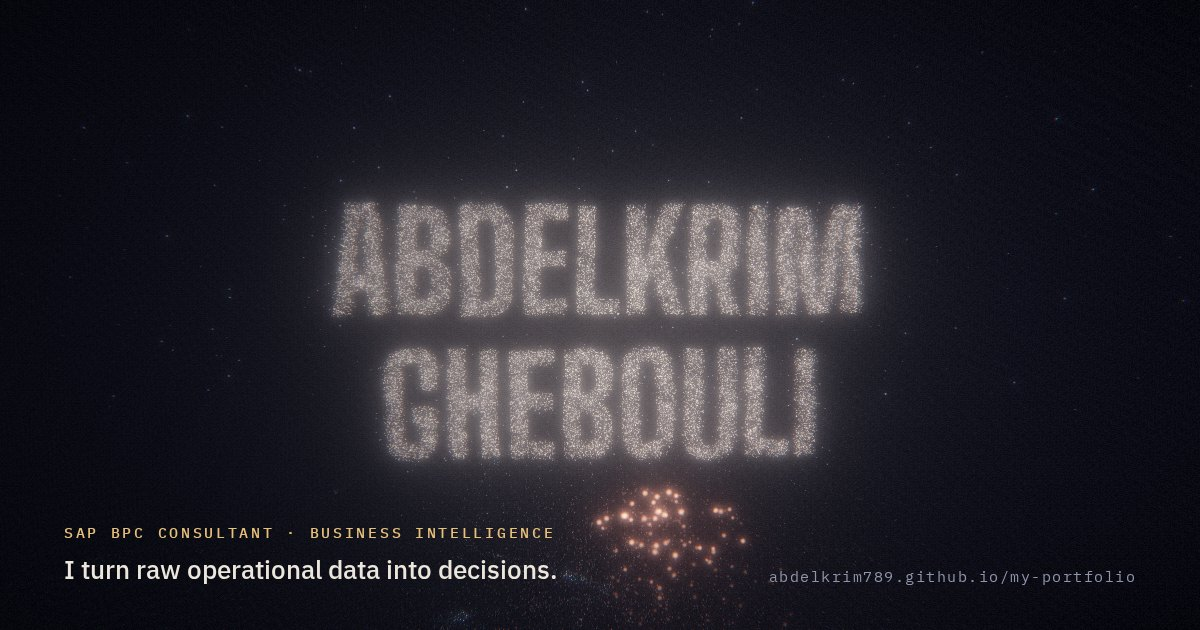
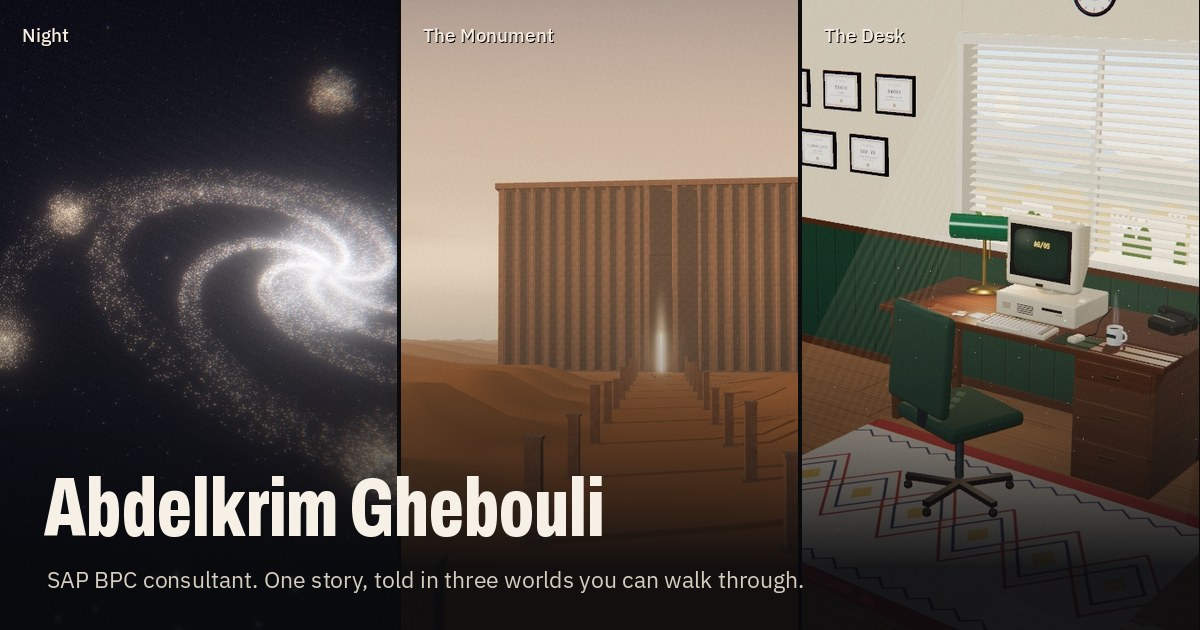
First impression: moon off the name, legible text, smoother load
- Night: in landscape the moon now rises above the name instead of
  covering it; portrait keeps its place.
- Small mono labels are at least 12px (Lighthouse legible text 52% -> 100%).
- Geometry is built in slices and the shaders are compiled before the
  first frame (in parallel where the browser supports it).
- The world-picker thumbnail no longer reads pixels back from the GPU 4 s
  after load, in the middle of the intro; it waits 20 s.
- The resolution governor measures real frame time, so a device that can
  only draw a few frames a second gets rescued in seconds instead of
  minutes (software rendering: ~900 ms -> ~400 ms per frame).
- New share image with all three worlds; links from the last chapter to
  the CV page and the Lab.

Claude-Session: https://claude.ai/code/session_01JYGFZYtspZL2gWLKE4Hkp7

diff --git a/index.html b/index.html
@@ -79,7 +79,7 @@ a { color: inherit; }
 .brand { display: flex; flex-direction: column; text-decoration: none; font: 600 0.95rem/1.15 var(--body); letter-spacing: 0.01em; }
 .brand span { font: 400 0.68rem/1.4 var(--mono); color: var(--muted); letter-spacing: 0.14em; text-transform: uppercase; }
 .hud-actions { display: flex; gap: 8px; }
-.chip { font: 500 0.7rem/1 var(--mono); letter-spacing: 0.12em; text-transform: uppercase; color: var(--paper); background: rgba(var(--bg2-rgb), 0.6);
+.chip { font: 500 0.75rem/1 var(--mono); letter-spacing: 0.12em; text-transform: uppercase; color: var(--paper); background: rgba(var(--bg2-rgb), 0.6);
   border: 1px solid var(--line); border-radius: 999px; padding: 9px 14px; cursor: pointer; text-decoration: none; backdrop-filter: blur(8px); -webkit-backdrop-filter: blur(8px); white-space: nowrap; }
 .chip:hover { border-color: var(--sand); color: var(--sand); }
 .chip[aria-pressed="true"] { border-color: var(--ice); color: var(--ice); }
@@ -124,7 +124,7 @@ a { color: inherit; }
   border-radius: 6px; border: 1px solid rgba(var(--sand-rgb), 0.55); background: rgba(var(--bg-rgb), 0.92); transform: translateY(-12px); opacity: 0; pointer-events: none;
   transition: opacity 0.4s, transform 0.5s cubic-bezier(0.2, 0.8, 0.2, 1); }
 #ach-toast.on { opacity: 1; transform: none; }
-#ach-toast small { display: block; font: 500 0.6rem/1 var(--mono); letter-spacing: 0.18em; text-transform: uppercase; color: var(--sand); margin-bottom: 6px; }
+#ach-toast small { display: block; font: 500 0.75rem/1 var(--mono); letter-spacing: 0.18em; text-transform: uppercase; color: var(--sand); margin-bottom: 6px; }
 #ach-toast b { display: block; font: 800 1.5rem/1 var(--display); text-transform: uppercase; color: var(--paper); }
 #ach-toast span { display: block; margin-top: 4px; font-size: 0.82rem; color: rgba(var(--fg-rgb), 0.8); }
 .ach { list-style: none; margin: 0 0 18px; padding: 0; display: grid; grid-template-columns: repeat(2, minmax(0, 1fr)); gap: 6px; }
@@ -143,11 +143,11 @@ a { color: inherit; }
 .dock { position: fixed; z-index: 6; left: 50%; transform: translateX(-50%); bottom: calc(env(safe-area-inset-bottom, 0px) + 14px);
   display: flex; align-items: center; gap: 2px; padding: 4px; border: 1px solid var(--line); border-radius: 999px;
   background: rgba(var(--bg-rgb), 0.72); backdrop-filter: blur(10px); -webkit-backdrop-filter: blur(10px); }
-.dock button { all: unset; cursor: pointer; font: 500 0.66rem/1 var(--mono); letter-spacing: 0.12em; text-transform: uppercase; color: var(--paper);
+.dock button { all: unset; cursor: pointer; font: 500 0.75rem/1 var(--mono); letter-spacing: 0.12em; text-transform: uppercase; color: var(--paper);
   padding: 9px 13px; border-radius: 999px; white-space: nowrap; }
 .dock button:hover, .dock button:focus-visible { background: rgba(var(--sand-rgb), 0.16); color: var(--sand); }
 .dock button[disabled] { opacity: 0.3; cursor: default; background: none; color: var(--paper); }
-.dock .now { font: 500 0.66rem/1 var(--mono); letter-spacing: 0.14em; color: var(--sand); padding: 0 10px; min-width: 9.5em; text-align: center; }
+.dock .now { font: 500 0.75rem/1 var(--mono); letter-spacing: 0.14em; color: var(--sand); padding: 0 10px; min-width: 9.5em; text-align: center; }
 .dock .next { border: 1px solid rgba(var(--sand-rgb), 0.45); }
 
 /* World button in the header */
@@ -290,7 +290,7 @@ html[data-ui="own"] #stage { touch-action: none; }
 
 .detail-nav { position: sticky; bottom: calc(env(safe-area-inset-bottom, 0px) * -1); margin: 26px -32px calc(-40px - env(safe-area-inset-bottom, 0px)); padding: 12px 20px calc(14px + env(safe-area-inset-bottom, 0px));
   display: flex; align-items: center; justify-content: space-between; gap: 8px; border-top: 1px solid var(--line); background: rgba(var(--bg-rgb), 0.94); }
-.detail-nav button { all: unset; cursor: pointer; display: flex; gap: 6px; align-items: center; min-width: 0; max-width: 42%; font: 500 0.66rem/1.3 var(--mono);
+.detail-nav button { all: unset; cursor: pointer; display: flex; gap: 6px; align-items: center; min-width: 0; max-width: 42%; font: 500 0.75rem/1.3 var(--mono);
   letter-spacing: 0.08em; text-transform: uppercase; color: var(--paper); padding: 8px 10px; border-radius: 4px; }
 .detail-nav button span { overflow: hidden; text-overflow: ellipsis; white-space: nowrap; }
 .detail-nav button:hover, .detail-nav button:focus-visible { color: var(--sand); background: rgba(var(--sand-rgb), 0.12); }
@@ -331,14 +331,14 @@ main { position: relative; z-index: 2; }
 @media (min-width: 900px) {
   .chapter:not(.hero) .panel { margin-left: max(0px, calc(176px - var(--gutter))); }
 }
-.eyebrow { display: flex; align-items: center; gap: 10px; font: 500 0.72rem/1 var(--mono); letter-spacing: 0.18em; text-transform: uppercase; color: var(--ice); margin: 0 0 18px; }
+.eyebrow { display: flex; align-items: center; gap: 10px; font: 500 0.76rem/1 var(--mono); letter-spacing: 0.18em; text-transform: uppercase; color: var(--ice); margin: 0 0 18px; }
 .eyebrow::before { content: ""; width: 26px; height: 1px; background: currentColor; }
 .eyebrow.sand { color: var(--sand); } .eyebrow.fault { color: var(--fault); }
 h2 { font: 800 clamp(2.6rem, 5vw, 4.9rem)/0.88 var(--display); text-transform: uppercase; letter-spacing: 0.005em; margin: 0 0 20px; text-wrap: balance; }
 p { margin: 0 0 14px; color: rgba(var(--fg-rgb), 0.86); max-width: 62ch; }
 .role { font: 400 0.78rem/1.5 var(--mono); color: var(--muted); letter-spacing: 0.04em; margin-bottom: 14px; }
 .role b { color: var(--paper); font-weight: 500; }
-.hint { display: inline-flex; align-items: center; gap: 12px; margin-top: 10px; font: 500 0.68rem/1.4 var(--mono); letter-spacing: 0.16em; text-transform: uppercase; color: var(--sand); }
+.hint { display: inline-flex; align-items: center; gap: 12px; margin-top: 10px; font: 500 0.75rem/1.4 var(--mono); letter-spacing: 0.16em; text-transform: uppercase; color: var(--sand); }
 .hint::before { content: ""; width: 7px; height: 7px; flex: none; border-radius: 50%; background: currentColor; animation: ping 1.8s ease-out infinite; }
 @keyframes ping { from { box-shadow: 0 0 0 0 rgba(var(--sand-rgb), 0.6); } to { box-shadow: 0 0 0 12px rgba(var(--sand-rgb), 0); } }
 
@@ -353,7 +353,7 @@ p { margin: 0 0 14px; color: rgba(var(--fg-rgb), 0.86); max-width: 62ch; }
 .creds { list-style: none; margin: 22px 0 28px; padding: 0; display: flex; flex-wrap: wrap; gap: 8px; }
 .creds li { font: 400 0.8rem/1.3 var(--body); padding: 10px 12px; border: 1px solid var(--line); background: rgba(var(--bg-rgb), 0.6); border-radius: 2px; cursor: default; transition: border-color 0.25s; }
 .creds li:hover, .creds li:focus-visible { border-color: var(--sand); }
-.creds code { display: block; font: 500 0.7rem/1 var(--mono); color: var(--sand); letter-spacing: 0.1em; margin-bottom: 6px; }
+.creds code { display: block; font: 500 0.76rem/1 var(--mono); color: var(--sand); letter-spacing: 0.1em; margin-bottom: 6px; }
 .contact { border-top: 1px solid var(--line); padding-top: 22px; display: grid; gap: 16px; }
 .other-worlds { font-size: 0.92rem; color: rgba(var(--fg-rgb), 0.8); }
 .link-btn { all: unset; cursor: pointer; color: var(--sand); border-bottom: 1px solid currentColor; font-weight: 500; }
@@ -362,11 +362,11 @@ p { margin: 0 0 14px; color: rgba(var(--fg-rgb), 0.86); max-width: 62ch; }
 :root[data-world="night"] .guide-card .g-night, :root[data-world="monument"] .guide-card .g-monument, :root[data-world="desk"] .guide-card .g-desk { opacity: 1; }
 #email { font: 800 clamp(1.5rem, 4.2vw, 2.6rem)/1 var(--display); letter-spacing: 0.01em; user-select: all; overflow-wrap: anywhere; }
 .contact-row { display: flex; gap: 10px; flex-wrap: wrap; }
-.btn { font: 500 0.74rem/1 var(--mono); letter-spacing: 0.12em; text-transform: uppercase; padding: 13px 18px; border-radius: 999px; cursor: pointer; text-decoration: none;
+.btn { font: 500 0.78rem/1 var(--mono); letter-spacing: 0.12em; text-transform: uppercase; padding: 13px 18px; border-radius: 999px; cursor: pointer; text-decoration: none;
   border: 1px solid var(--sand); background: var(--sand); color: var(--ink); }
 .btn.ghost { background: transparent; color: var(--paper); border-color: var(--line); }
 .btn.ghost:hover { border-color: var(--ice); color: var(--ice); }
-footer { position: relative; z-index: 2; padding: 0 var(--gutter) calc(env(safe-area-inset-bottom, 0px) + 70px); font: 400 0.68rem/1.6 var(--mono); color: var(--muted); letter-spacing: 0.06em; }
+footer { position: relative; z-index: 2; padding: 0 var(--gutter) calc(env(safe-area-inset-bottom, 0px) + 70px); font: 400 0.78rem/1.6 var(--mono); color: var(--muted); letter-spacing: 0.04em; }
 footer p { color: var(--muted); font-size: inherit; }
 
 /* Detail panel */
@@ -463,7 +463,7 @@ footer p { color: var(--muted); font-size: inherit; }
   .orb:hover, .orb:focus-visible { gap: 0; padding: 3px; }
   .orb[aria-pressed="true"] span { max-width: 0; }
   .orb[aria-pressed="true"] { gap: 0; padding: 3px; }
-  .dock .now { min-width: 0; white-space: nowrap; padding: 0 6px; font-size: 0.6rem; }
+  .dock .now { min-width: 0; white-space: nowrap; padding: 0 6px; font-size: 0.75rem; letter-spacing: 0.08em; }
   .dock button { padding: 9px 10px; }
   .chapter:not(.hero) .panel { padding-top: 50vh; padding-bottom: calc(10vh + 72px); }
   .hero .panel { bottom: calc(18vh + env(safe-area-inset-bottom, 0px) + 92px); }
@@ -610,6 +610,7 @@ footer p { color: var(--muted); font-size: inherit; }
         <li tabindex="0" data-glyph="ABAP"><code>C_ABAPD_2309</code>Back-End Developer · ABAP Cloud</li>
       </ul>
       <p class="other-worlds">This story is also a monument in the Sahara with an AI guide, and a desk with a working computer. <button type="button" class="link-btn" data-worlds>See the other worlds</button></p>
+      <p class="other-worlds">Prefer paper? <a class="link-btn" href="./cv/">Read the CV as a page</a>, or <a class="link-btn" href="./lab/">run a group consolidation</a> in the Consolidation Lab.</p>
       <div class="contact">
         <span id="email" data-glyph="@">abdelkrimghebouli.34@gmail.com</span>
         <div class="contact-row">
@@ -706,6 +707,8 @@ footer p { color: var(--muted); font-size: inherit; }
   <h3>SAP BPC Consultant</h3>
   <p class="dmeta">CNPC / Beijing Richfit International · June 2026 to now</p>
   <p>On Sonatrach's SHONE project I support planning, consolidation and reporting across Sonatrach's operations in Algeria. The core of this scene is the consolidated view; each of the six streams around it is one part of how I work on it.</p>
+  <p>To see what a consolidation actually does, run one: three companies, three currencies, seven steps.</p>
+  <a class="link" href="./lab/" data-lab>Open the Consolidation Lab</a>
 </template>
 <template id="d-bpf">
   <p class="tag">Stream · process</p>

diff --git a/src/main.js b/src/main.js
@@ -51,6 +51,7 @@ const ACH = [
   ['vault', 'Keyholder', 'Open the vault beneath the floor'],
   ['noor', 'Curious', 'Ask NOOR five questions'],
   ['tcode', 'Power user', 'Run a transaction code on my computer'],
+  ['lab', 'Group close', 'Open the Consolidation Lab on my computer'],
   ['floppy', 'Disk jockey', 'Change world with a floppy disk'],
   ['postcard', 'Wish you were here', 'Take a postcard (P)'],
   ['hello', 'Hello', 'Meet the person behind it'],
@@ -391,6 +392,7 @@ async function start() {
   const { tier, gpu } = detectTier(renderer);
   root.dataset.tier = tier;
   const DPR_MAX = tier >= 2 ? Math.min(devicePixelRatio || 1, 1.75) : tier === 1 ? Math.min(devicePixelRatio || 1, 1.3) : 0.75;
+  const DPR_MIN = tier === 0 ? 0.45 : 0.6;
   let dpr = DPR_MAX;
   renderer.setPixelRatio(dpr);
   renderer.setSize(innerWidth, innerHeight);
@@ -431,12 +433,14 @@ async function start() {
   bootLog(`Detected ${['a light', 'a standard', 'a strong'][tier]} graphics device`);
   bootLog(LOGS[world]);
   let active = await ensure(world);
+  await Promise.race([active.precompile?.(), new Promise((r) => setTimeout(r, 2500))]);
   bootLog('World ready');
   active.enter?.();
 
   const composite = createComposite(renderer, { fluid: tier > 0 && !reduced });
   audio.setWorld(world);
-  let glitch = 0, trans = null, shocks = 0, wantShot = false, hudOn = false, thumbAt = performance.now() + 4000;
+  // the world-picker thumbnail reads pixels back from the GPU, which stalls a frame: not during the first impression
+  let glitch = 0, trans = null, shocks = 0, wantShot = false, hudOn = false, thumbAt = performance.now() + 20000;
   document.getElementById('postcard-btn')?.addEventListener('click', () => { setGuide(false); wantShot = true; });
   document.getElementById('perf-btn')?.addEventListener('click', () => { setGuide(false); toggleHUD(); });
   const hud = document.getElementById('perf');
@@ -644,6 +648,7 @@ async function start() {
   }
 
   function frame(now) {
+    const rawDt = Math.min(0.25, (now - last) / 1000);   // what the frame really cost (a tab coming back from the background counts once); the animation clock, dt, is clamped harder
     const dt = Math.min(DTMAX, (now - last) / 1000); last = now;
     const time = (now - t0) / 1000;
     if (document.hidden) { requestAnimationFrame(frame); return; }
@@ -742,14 +747,15 @@ async function start() {
     if (!booted) bootDone();
 
     // resolution governor: trade pixels for frame rate, continuously
-    ema += (dt - ema) * 0.08;
-    govT += dt;
-    if (!NOGOV && !trans && introT >= 1 && govT > 1.2) {
+    // it measures real frame time, so a device that can only manage a few frames a second is rescued in seconds, even mid-intro
+    ema += (rawDt - ema) * 0.08;
+    govT += rawDt;
+    if (!NOGOV && !trans && (introT >= 1 || ema > 0.1) && govT > 1.2) {
       govT = 0;
-      if (ema > 1 / 46 && dpr > 0.6) { dpr = Math.max(0.6, +(dpr - 0.15).toFixed(2)); govUp = 0; resize(); }
+      if (ema > 1 / 46 && dpr > DPR_MIN) { dpr = Math.max(DPR_MIN, +(dpr - (ema > 0.1 ? 0.25 : 0.15)).toFixed(2)); govUp = 0; resize(); }
       else if (ema < 1 / 57 && dpr < DPR_MAX) { if (++govUp >= 3) { govUp = 0; dpr = Math.min(DPR_MAX, +(dpr + 0.1).toFixed(2)); resize(); } }
       else govUp = 0;
-      if (dpr <= 0.6 && ema > 1 / 30) Object.values(made).forEach((w) => w.quality(2));
+      if (dpr <= DPR_MIN && ema > 1 / 30) Object.values(made).forEach((w) => w.quality(2));
     }
     hudFrames++; hudT += dt;
     if (hudOn && hudT > 0.5) {

diff --git a/src/worlds/night.js b/src/worlds/night.js
@@ -70,7 +70,10 @@ export async function createNight(env) {
   const N = small || coarse ? 24000 : cores <= 4 ? 38000 : 60000;
   const scene = new THREE.Scene();
   const camera = new THREE.PerspectiveCamera(45, innerWidth / innerHeight, 0.1, 900);
+  // the heavy geometry is built in slices, handing the main thread back between them so the page stays responsive while it loads
+  const breathe = () => new Promise((r) => setTimeout(r, 0));
   const shapes = buildShapes(N);
+  await breathe();
 
   const fit = () => {
     const aspect = innerWidth / innerHeight, mobile = aspect < 0.9;
@@ -83,7 +86,9 @@ export async function createNight(env) {
   let path = buildPath(F.mobile);
   const pathD = buildPath(false);
 
-  const attrs = sharedGeometry(N, shapes, buildName(N, F.nameW, fontFam));
+  const nameAttr = buildName(N, F.nameW, fontFam);
+  await breathe();
+  const attrs = sharedGeometry(N, shapes, nameAttr);
   const objs = SCENES.map((d, k) => {
     const o = createScene(attrs, k, Math.floor(N * d.n), d.s);
     o.position.set(...d.pos); o.rotation.set(...d.rot); o.scale.setScalar(d.s);
@@ -91,11 +96,14 @@ export async function createNight(env) {
     scene.add(o);
     return o;
   });
+  await breathe();
   const ground = createGround(small || coarse ? 18000 : 42000, [-85, 45, -290, 35]);
   const trail = createTrail(pathD.pos, small || coarse ? 3500 : 7000);
   const sky = createSky(small ? 1400 : 2600);
   const orb = createOrb(small || coarse ? 2600 : 5200);
-  orb.position.set(60, 112, -430); orb.scale.setScalar(48);
+  // the moon rises above the name in a landscape frame instead of sitting on it; portrait keeps its old place
+  const placeOrb = () => { if (F.mobile) { orb.position.set(60, 112, -430); orb.scale.setScalar(48); } else { orb.position.set(0, 151, -430); orb.scale.setScalar(33); } };
+  placeOrb();
   scene.add(orb, ground, trail, sky);
   const screen = createScreen(small || coarse ? 120 : 190, small || coarse ? 75 : 118);
   screen.setTexture('d-olive', canv['d-olive'].canvas);
@@ -203,10 +211,12 @@ export async function createNight(env) {
       objs.forEach((o) => { o.material.uniforms.uAspect.value = F.aspect; o.material.uniforms.uPixelRatio.value = pr; });
       [ground, trail, sky, orb].forEach((o) => (o.material.uniforms.uPixelRatio.value = pr));
       finalPass.uniforms.uResolution.value.set(w * pr, h * pr);
-      if (oldM !== F.mobile) path = buildPath(F.mobile);
+      if (oldM !== F.mobile) { path = buildPath(F.mobile); placeOrb(); }
       if (Math.abs(oldW - F.nameW) / oldW > 0.08) { attrs.position.array.set(buildName(N, F.nameW, fontFam)); attrs.position.needsUpdate = true; glyphCache.clear(); }
     },
     quality(tier) { if (tier >= 2) bloom.enabled = false; },
+    // shaders compile off the main thread where the browser allows it, before the first frame needs them
+    precompile() { try { return renderer.compileAsync?.(scene, camera).catch(() => {}); } catch {} },
     update(c) {
       const { dt, time, stage, vel, mouse, mouseActive, introT, glyphKey, focusD, portalW } = c;
       ms += ((mouseActive ? 1 : 0) - ms) * Math.min(1, dt * 3);
